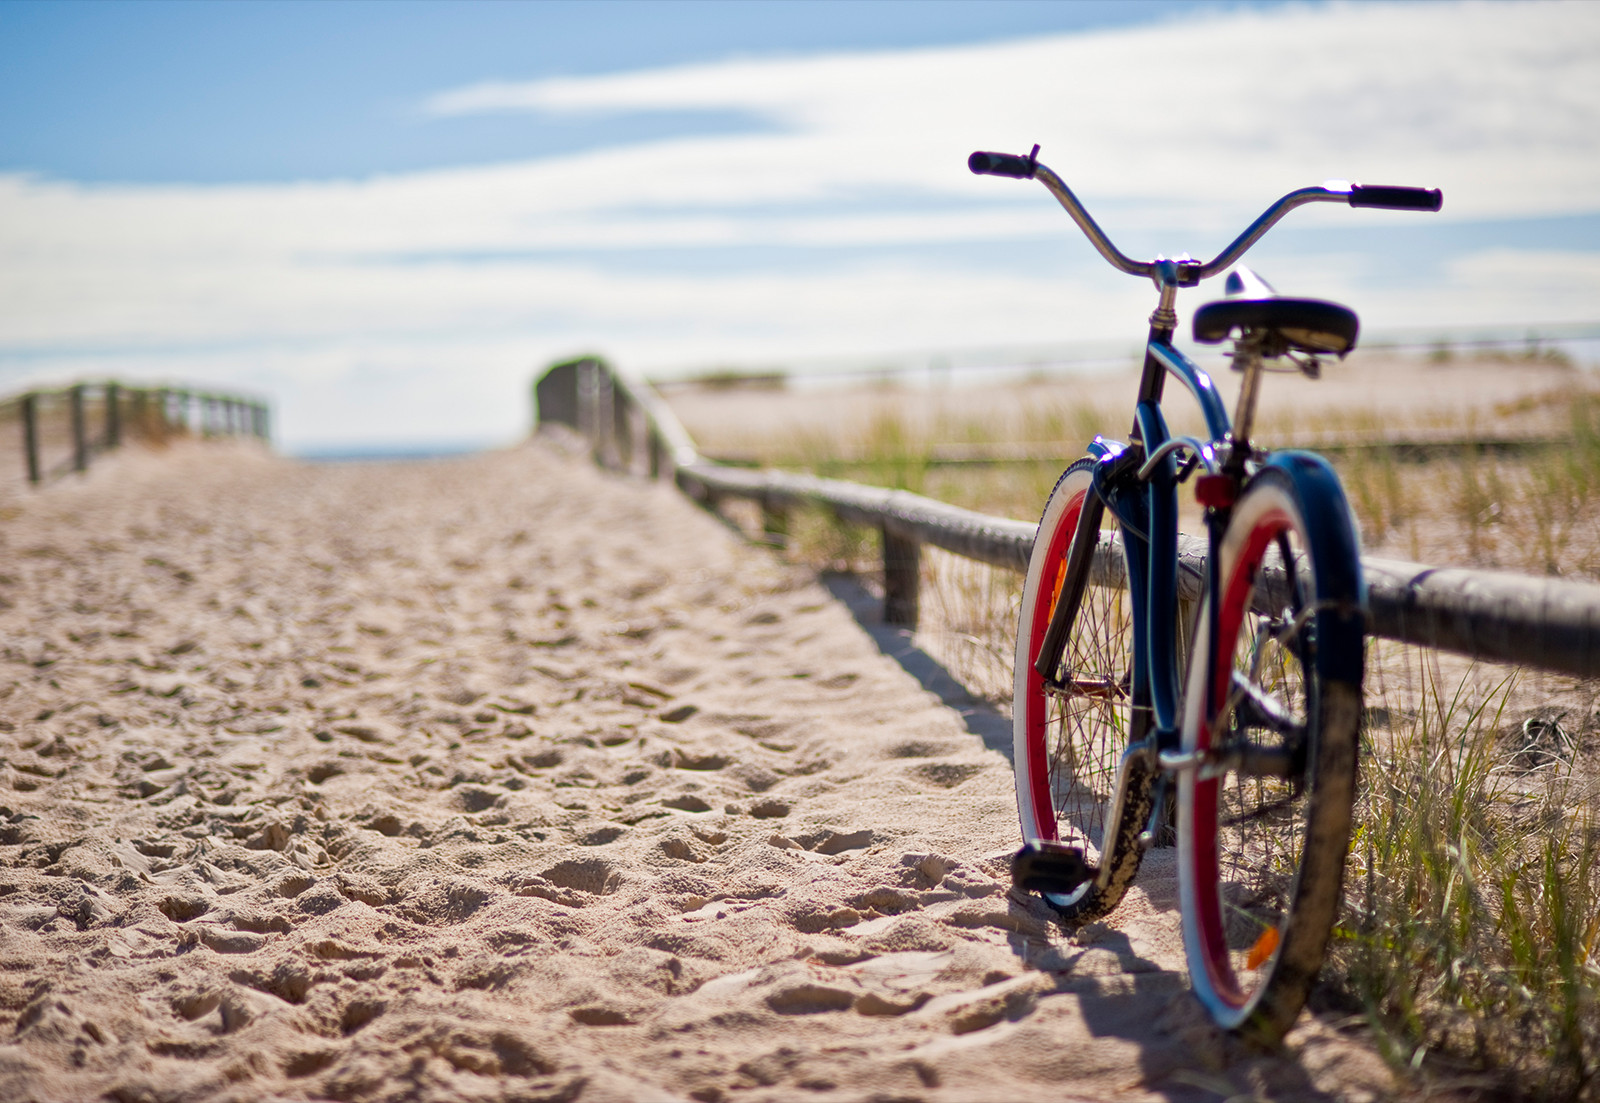
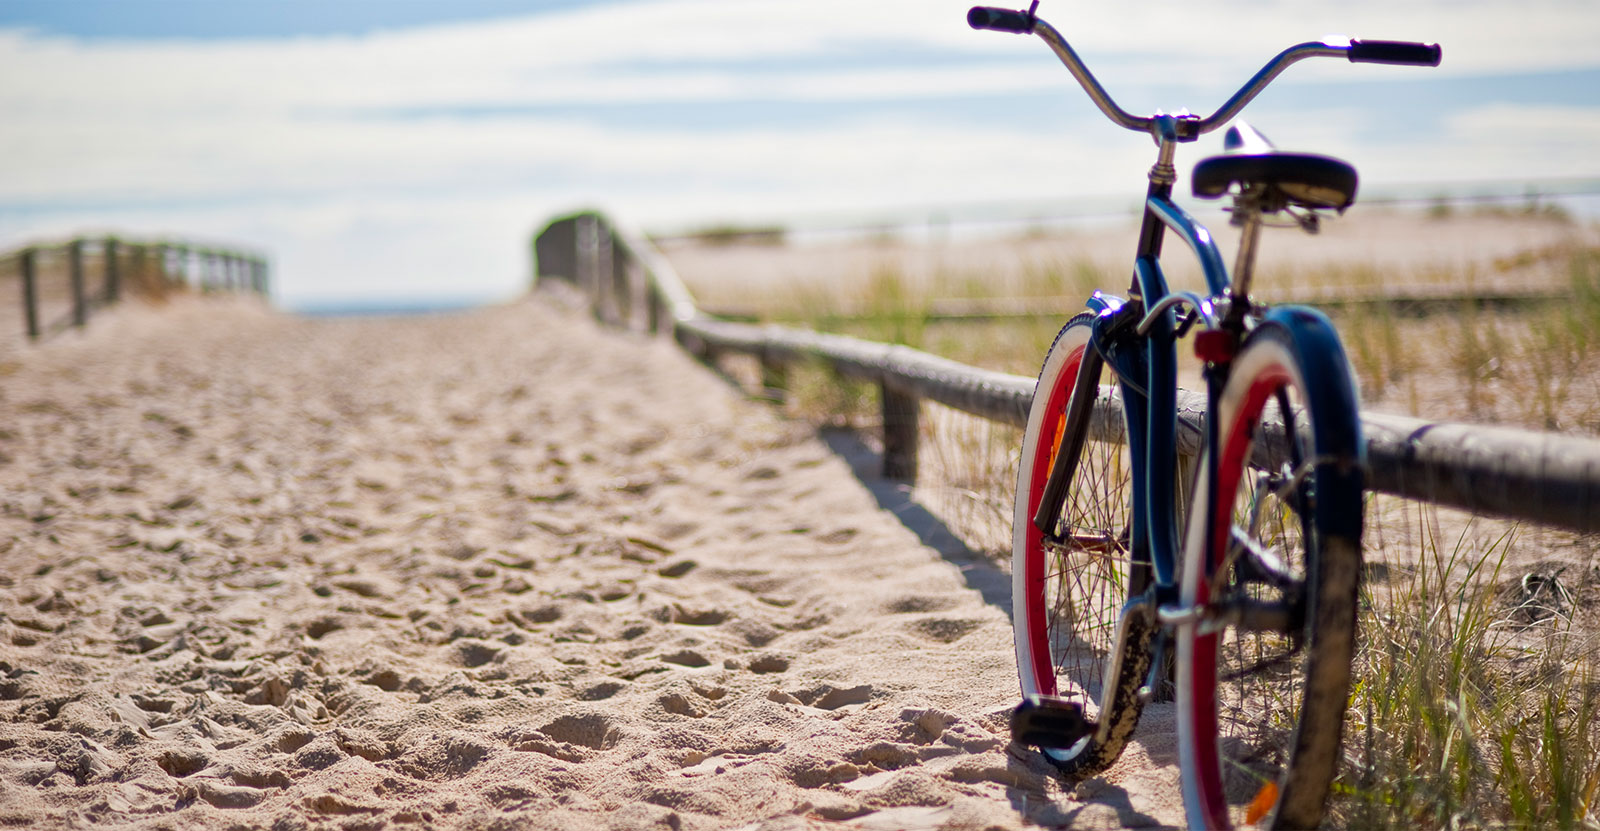
location-detail tablandscape

diff --git a/html/location-detail.html b/html/location-detail.html
@@ -141,7 +141,7 @@
                 </div>
 			</header>
             <section class="heroBanner">
-                <figure class="bannerImage" style="background-image: url('images/banner/client_service_bg.jpg')"></figure>
+                <figure class="bannerImage" style="background-image: url('images/banner/location_bg.jpg')"></figure>
             </section>
             <section class="heroBlock locationDetailBlk">
                 <div class="containerWrapper">
@@ -152,32 +152,137 @@
 								<img src="images/location-detail/location-hero-image.jpg" alt="location-hero-image"/>
 							</div>
 							<div class="addrSection">
-								<div class="lftSec">
-									<p class="pnoneNum">
-										<a href="tel:732-295-0004">(732) 295-0004</a>
-									</p>
-									<p class="locationAddr">
-										<span>2307 Rt. 88</span>
-										<span>Point Pleasant, NJ 08742</span>
-									</p>
-									<p class="mailMember">
-										<strong>Branch Manager</strong>
-										<span>Lisa Colonno</span>
-										<strong>Assistant Branch Manager</strong>
-										<span>Kelly Mallet</span>
-									</p>
-									<p class="printIcon">
-										<a href="tel:732-295-0004">(732) 295-0004</a>
-									</p>
+								<div class="fullWrap">
+									<div class="lftSec">
+										<p class="pnoneNum">
+											<a class="vino" href="tel:732-295-0004">(732) 295-0004</a>
+										</p>
+										<p class="locationAddr">
+											<span>2307 Rt. 88</span>
+											<span>Point Pleasant, NJ 08742</span>
+										</p>
+										<p class="mailMember">
+											<strong>Branch Manager</strong>
+											<span>Lisa Colonno</span>
+											<strong>Assistant Branch Manager</strong>
+											<span>Kelly Mallet</span>
+										</p>
+										<p class="printIcon">
+											<a href="tel:732-295-0004">(732) 295-0004</a>
+										</p>
+									</div>
+									<div class="rgtSec">
+										<p class="walkAtm">
+											<a href="tel:732-295-0004">Walk up atm</a>
+										</p>
+										<p class="hoursSec">
+											<a href="tel:732-295-0004">24 hour Atm</a>
+										</p>
+										<p class="boxSec">
+											<a href="tel:732-295-0004">Safe Deposit Box</a>
+										</p>
+									</div>
 								</div>
-								<div class="rgtSect">
+								<div class="timehrsSection">
+									<div class="lobbbyHrs">
+										<h4>Lobby Hours</h4>
+										<table>
+											<tbody>
+												<tr>
+													<td><strong>Monday </strong>8:30am – 4:00pm</td>
+													<td><strong>Tuesday </strong>8:30am – 4:00pm</td>
+													<td><strong>Wednesday </strong>8:30am – 4:00pm</td>
+													<td><strong>Thursday </strong>8:30am – 4:00pm</td>
+													<td><strong>Friday </strong>8:30am – 6:00pm</td>
+													<td><strong>Saturday </strong>9:00am – 1:00pm</td>
+													<td><strong>Sunday </strong>CLOSED</td>
+												</tr>
+											</tbody>
+										</table>
+									</div>
+									<div class="driveHrs">
+										<h4>Drive-Thru Hours</h4>
+										<table>
+											<tbody>
+												<tr>
+													<td><strong>Monday </strong>8:00am – 6:00pm</td>
+													<td><strong>Tuesday </strong>8:00am – 6:00pm</td>
+													<td><strong>Wednesday </strong>8:00am – 6:00pm</td>
+													<td><strong>Thursday </strong>8:00am – 6:00pm</td>
+													<td><strong>Friday </strong>8:00am – 6:00pm</td>
+													<td><strong>Saturday </strong>9:00am – 1:00pm</td>
+													<td><strong>Sunday </strong>CLOSED</td>
+												</tr>
+											</tbody>
+										</table>
+									</div>
 								</div>
 							</div>
 						</div>
                     </div>
                 </div>
             </section>
-      
+			<section class="mapSection">
+				<div class="containerWrapper">
+					<img src="images/location-detail/map.jpg" alt="map"/>
+				</div>
+			</section>
+			<section class="alertSection">
+				<div class="containerWrapper">
+					<div class="bgWrap">
+						<div class="contentSec">
+							<h2>real time alerts</h2>
+							<p>Setting up your alerts only takes a few minutes, and you can easily adjust your preferences at any time.</p>
+							<a href="#" class="btnManasq">
+								<span>learn more</span>
+							</a>
+						</div>
+					</div>
+				</div>
+			</section>
+			<section class="bluePannel animatable">
+				<div class="containerWrapper">
+					<div class="bgWrap">
+					  <div class="detailsWrap">
+						<div class="wraps">
+						  <h2>
+							Let's get started
+						  </h2>
+						  <h3>
+							OPEN AN ACCOUNT ONLINE TODAY
+						  </h3>
+						  <p>
+							Finding the right account to achieve your financial goals
+							is important - and also really easy.
+						  </p>
+						</div>
+						<a href="#" class="btnManasq">
+						  <span>
+							OPEN AN ACCOUNT
+						  </span>
+						</a>
+					  </div>
+					  <figure>
+						<img src="images/home/img_or.png" alt="">
+					  </figure>
+					  <div class="detailsWrap">
+						<div class="wraps">
+						  <h2>
+							TIMETRADE WITH DIGITAL EXPERTS
+						  </h2>
+						  <p>
+							Connect with a Digital Expert or Local Branch Manager.
+						  </p>
+						</div>
+						<a href="#" class="btnManasq">
+						  <span>
+							Book an Appointment
+						  </span>
+						</a>
+					  </div>
+					</div>
+				</div>
+			</section>
 			<section class="joinEmail">
                 <div class="containerWrapper">
                   <h2>

diff --git a/html/sass/pages/location-detail2.css b/html/sass/pages/location-detail2.css
@@ -7,18 +7,13 @@
 				margin-bottom: 43px;
 			}
 			.contentSection {
-				display:flex;
-				flex-wrap: wrap;
+				display:table;
 				width:100%;
-				clear: both;
 				.imgSection {
 					width: 53.204%;
 					float: left;
 					@include bp(tablandscape) {
 						width: 47.456%;
-						img {
-							min-height:475px;
-						}
 					}
 				}
 				.addrSection {
@@ -31,13 +26,13 @@
 						display:table;
 						width:100%;
 						.lftSec {
-							width:51%;
-							float:left;
-							padding-left: 34px;
-							@include bp(tablandscape) {
-								width:55%;
-								padding-left:19px;
-							}
+						width:51%;
+						float:left;
+						padding-left: 34px;
+						@include bp(tablandscape) {
+							width:55%;
+							padding-left:19px;
+						}
 							p {
 								font-size:20px;
 								color:#666666;
@@ -95,10 +90,6 @@
 								}
 								&.mailMember {
 									margin-top: 66px;
-									@include bp(tablandscape) {
-									   	margin-top: 30px;
-									   	margin-bottom: 21px;
-									}
 									&:before {
 										@extend .pnoneNum, :before;
 									    background: url(../images/location-detail/mail-icon.png) no-repeat top right;
@@ -113,26 +104,18 @@
 										position: relative;
 									    top: -1px;
 									    margin-bottom: 2px;
-									    @include bp(tablandscape) {
-									    	padding-left:41px;
-									    	margin-bottom: -5px;
-									    }
 									}
 									span {
 										display:block;
 										padding-left: 60px;
 										margin-bottom: 3px;
 										@include bp(tablandscape) {
-									    	padding-left:41px;
-									    	margin-bottom:1px;
+									    	
 									    }
 									}
 								}
 								&.printIcon {
 									margin-top: 67px;
-									@include bp(tablandscape) {
-										margin-top: 21px;
-									}
 									&:before {
 										@extend .pnoneNum, :before;
 									    background: url(../images/location-detail/print-icon.png) no-repeat top right;
@@ -143,19 +126,18 @@
 									}
 									a {
 										position:relative;
-										top:11px;
+										top:14px;
 									}
 								}
 							}
 						}
 						.rgtSec {
-							width:49%;
-							float:left;
-							padding-left: 42px;
-							@include bp(tablandscape) {
-		    					width:45%;
-		    					padding-left: 13px;
-		    				}
+						width:49%;
+						float:left;
+						padding-left: 42px;
+						@include bp(tablandscape) {
+	    					width:45%;
+	    				}
 							p {
 								font-size:18px;
 								color: #ababab;
@@ -165,9 +147,6 @@
 	    						}
 								&.walkAtm {
 									margin-top:3px;
-									@include bp(tablandscape) {
-	    								margin-top:0px;
-	    							}
 									&::before {
 										content: "";
 									    display: inline-block;
@@ -181,20 +160,16 @@
 									    	width:34px;
 									    	height:34px;
 									    	background-size: cover;
-									    	margin: 0 9px 0 0;
 									    }
 									}
 									a {
 										position:relative;
-										top:9px;
+										top:12px;
 									}
 								}
 								&.hoursSec {
 									@extend .walkAtm;
 									margin-top:36px;
-									@include bp(tablandscape) {
-	    								margin-top:39px;
-	    							}
 									&::before {
 										background: url(../images/location-detail/hours-icon.png) no-repeat top right;
 										@include bp(tablandscape) {
@@ -205,9 +180,6 @@
 								&.boxSec {
 									@extend .walkAtm;
 									@extend .hoursSec;
-									@include bp(tablandscape) {
-										margin-top:40px;
-									}
 									&::before {
 										background: url(../images/location-detail/box-icon.png) no-repeat top right;
 										@include bp(tablandscape) {
@@ -224,10 +196,6 @@
 						background:#1268e5;
 						padding: 23px 20px 39px 60px;
 						margin-top: 61px;
-						@include bp(tablandscape) {
-							margin-top: 8px;
-							padding: 20px 20px 28px 19px;
-						}
 						.lobbbyHrs {
 							width: 50%;
     						float: left;
@@ -235,10 +203,6 @@
     							font-size:20px;
     							color:#ffffff;
     							margin-bottom: 24px;
-    							@include bp(tablandscape) {
-    								font-size:16px;
-    								margin-bottom:11px;
-    							}
     						}
     						table {
     							tbody {
@@ -248,10 +212,6 @@
     										color:#fff;
     										font-size:20px;
     										padding: 0px;
-    										@include bp(tablandscape) {
-			    								font-size:16px;
-			    								margin-bottom:-3.4px;
-			    							}
     									}
     								}
     							}
@@ -260,9 +220,6 @@
 						.driveHrs {
 							@extend .lobbbyHrs;
 							padding-left:13px;
-							@include bp(tablandscape) {
-								padding-left: 39px;
-							}
 						}
 					}
 				}
